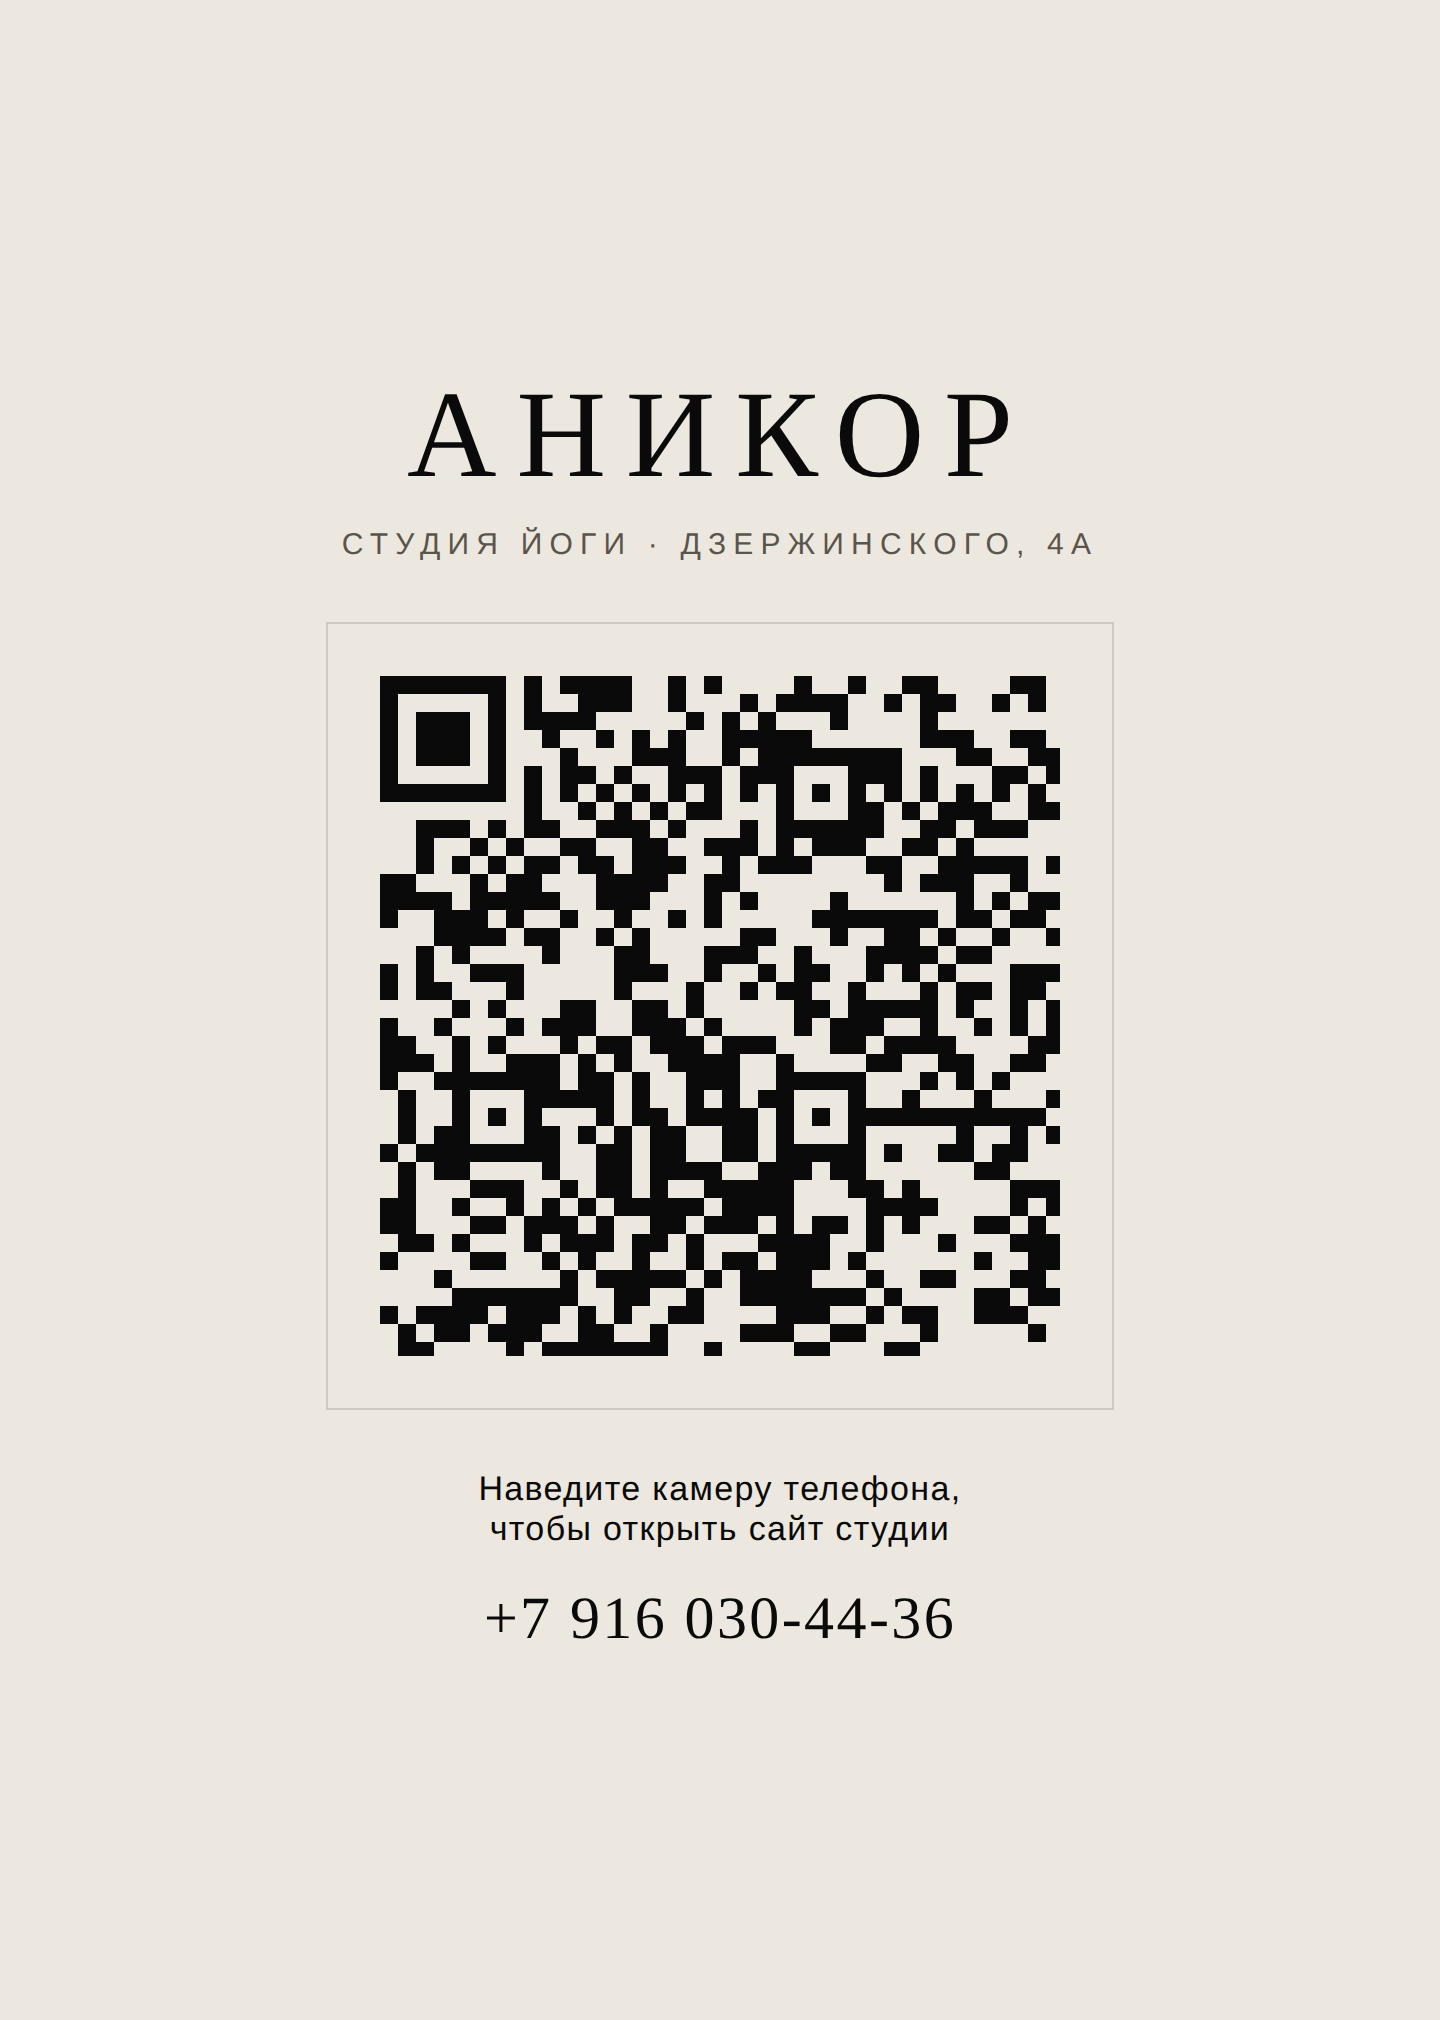
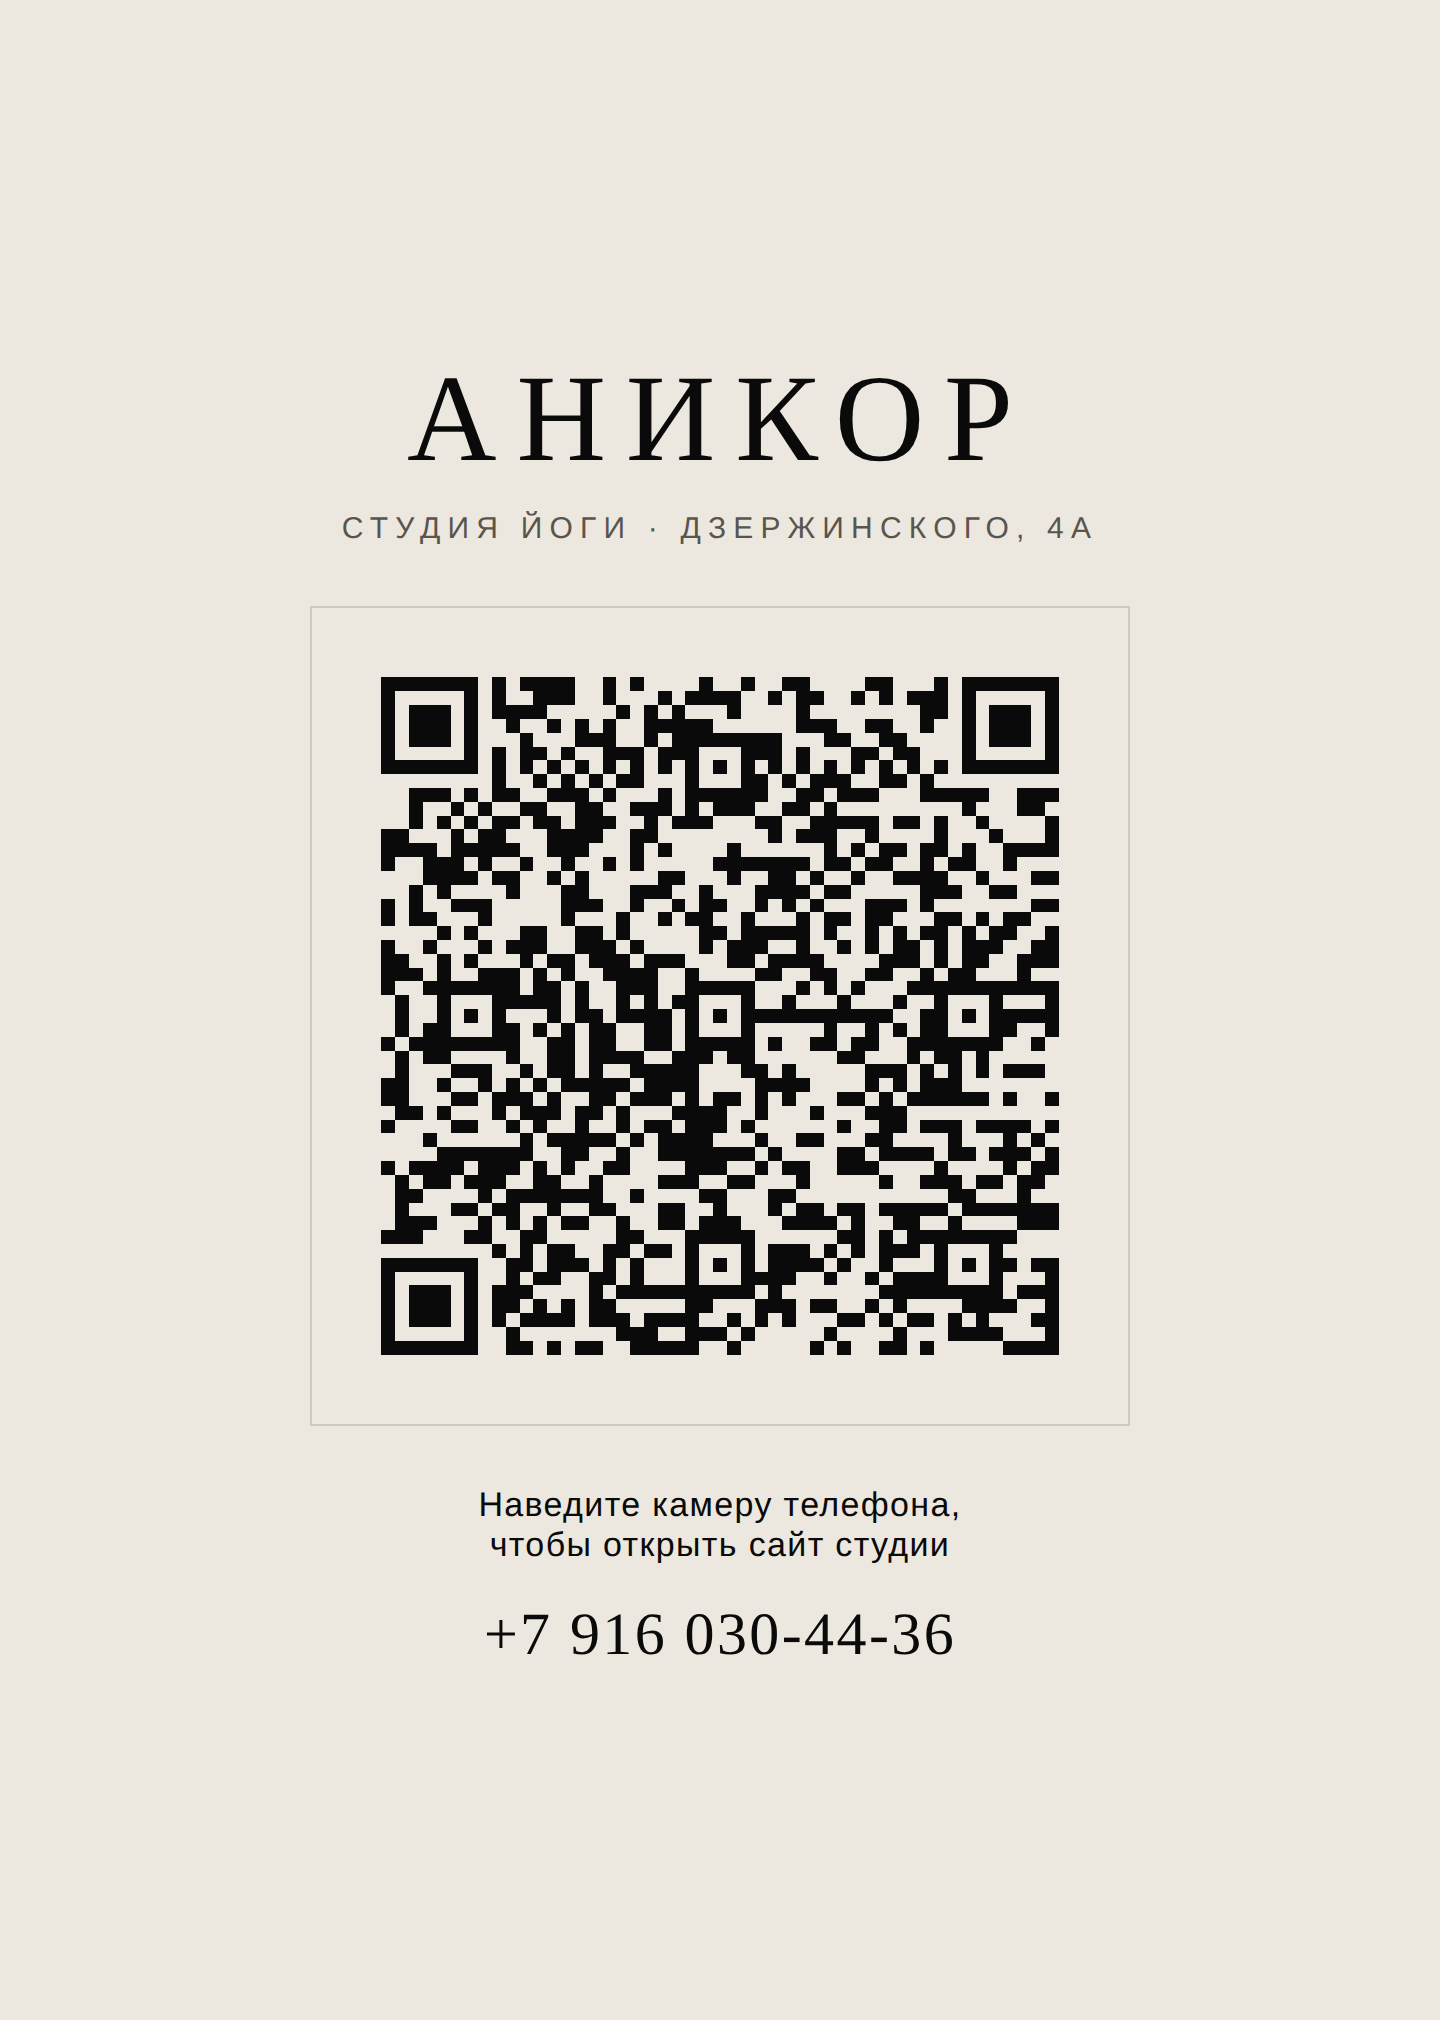
Fix QR cards that would not scan
The bare QR images decoded fine, but the printable cards did not: the card
re-rendered the code as inline SVG, and that render was not readable by a
decoder. The card now embeds the same PNG that was verified, so what is on
the card is exactly the image that scans.

Verified with OpenCV's detector: all four files decode to the right URL,
and the card still decodes when scaled down to 288x404, which is well past
what a phone camera needs.

Claude-Session: https://claude.ai/code/session_01BA2V5MMpZMPert5FZ8X7ZB

diff --git a/qr/anikor-dark-card.html b/qr/anikor-dark-card.html
@@ -7,8 +7,8 @@
   .card { display: grid; justify-items: center; gap: 30px; text-align: center; padding: 60px; }
   .name { font-family: "Playfair Display", Georgia, serif; font-size: 62px; letter-spacing: .16em; text-transform: uppercase; }
   .sub { font-size: 15px; letter-spacing: .24em; text-transform: uppercase; color: #5A554C; }
-  .qr { padding: 26px; background: #EDE8DF; border: 1px solid #5A554C33; }
-  .qr svg { display: block; width: 340px; height: 340px; }
+  .qr { padding: 14px; background: #EDE8DF; border: 1px solid #5A554C33; }
+  .qr img { display: block; width: 380px; height: 380px; image-rendering: pixelated; }
   .hint { font-size: 17px; letter-spacing: .04em; }
   .tel { font-family: "Playfair Display", Georgia, serif; font-size: 30px; letter-spacing: .04em; }
 </style></head><body>
@@ -17,7 +17,7 @@
     <p class="name">Аникор</p>
     <p class="sub" style="margin-top:10px">студия йоги · Дзержинского, 4А</p>
   </div>
-  <div class="qr"><svg width="441" height="441" class="segno"><g transform="scale(9)"><path fill="#ede8df" d="M0 0h49v49h-49z"/><path class="qrline" stroke="#0a0a0a" d="M0 0.5h7m1 0h1m1 0h4m2 0h1m1 0h1m4 0h1m2 0h1m2 0h2m4 0h2m3 0h1m1 0h7m-49 1h1m5 0h1m1 0h1m2 0h3m2 0h1m3 0h1m1 0h4m2 0h1m1 0h2m2 0h1m1 0h1m1 0h3m1 0h1m5 0h1m-49 1h1m1 0h3m1 0h1m1 0h4m5 0h1m1 0h1m1 0h1m3 0h1m4 0h1m8 0h2m1 0h1m1 0h3m1 0h1m-49 1h1m1 0h3m1 0h1m2 0h1m2 0h1m1 0h1m1 0h1m2 0h5m6 0h3m2 0h2m2 0h1m2 0h1m1 0h3m1 0h1m-49 1h1m1 0h3m1 0h1m3 0h1m3 0h3m2 0h1m1 0h8m3 0h2m2 0h2m4 0h1m1 0h3m1 0h1m-49 1h1m5 0h1m1 0h1m1 0h2m1 0h1m2 0h3m1 0h3m3 0h3m1 0h1m3 0h2m1 0h2m3 0h1m5 0h1m-49 1h7m1 0h1m1 0h1m1 0h1m1 0h1m1 0h1m1 0h1m1 0h1m1 0h1m1 0h1m1 0h1m1 0h1m1 0h1m1 0h1m1 0h1m1 0h1m1 0h1m1 0h1m1 0h7m-41 1h1m2 0h1m1 0h1m1 0h1m1 0h2m3 0h1m3 0h2m1 0h1m1 0h3m2 0h2m1 0h1m-38 1h3m1 0h1m1 0h2m2 0h3m1 0h1m3 0h1m1 0h6m2 0h2m1 0h3m3 0h5m2 0h3m-47 1h1m2 0h1m1 0h1m2 0h2m2 0h2m2 0h3m1 0h1m1 0h3m2 0h2m1 0h1m9 0h1m3 0h2m-46 1h1m1 0h1m1 0h1m1 0h2m1 0h2m1 0h3m2 0h1m1 0h3m3 0h2m2 0h5m1 0h2m1 0h1m2 0h1m4 0h1m-49 1h2m3 0h1m1 0h2m3 0h4m2 0h2m8 0h1m1 0h3m2 0h1m4 0h1m3 0h1m3 0h1m-49 1h4m1 0h5m2 0h3m3 0h1m1 0h1m4 0h1m6 0h1m1 0h1m1 0h2m1 0h2m1 0h1m2 0h4m-49 1h1m2 0h3m1 0h1m2 0h1m2 0h1m2 0h1m1 0h1m5 0h7m1 0h2m1 0h2m2 0h1m1 0h2m2 0h1m-43 1h4m1 0h2m2 0h1m1 0h1m5 0h2m3 0h1m2 0h2m1 0h1m2 0h1m2 0h4m2 0h1m3 0h2m-47 1h1m1 0h1m4 0h1m3 0h2m3 0h3m2 0h1m3 0h4m1 0h2m5 0h3m2 0h2m-46 1h1m1 0h1m2 0h3m5 0h3m2 0h1m2 0h1m1 0h2m2 0h1m1 0h1m1 0h1m3 0h3m1 0h1m7 0h2m-49 1h1m1 0h2m3 0h1m5 0h1m3 0h1m2 0h1m1 0h2m2 0h1m3 0h1m1 0h2m1 0h2m3 0h2m1 0h1m1 0h2m-43 1h1m1 0h1m3 0h2m2 0h2m1 0h1m5 0h2m1 0h5m1 0h1m2 0h1m1 0h1m1 0h2m1 0h1m1 0h2m2 0h1m-49 1h1m2 0h1m3 0h1m1 0h3m2 0h3m1 0h1m4 0h1m1 0h3m2 0h1m2 0h1m1 0h1m1 0h2m1 0h1m1 0h3m2 0h2m-49 1h2m2 0h1m1 0h1m3 0h1m1 0h2m1 0h3m1 0h3m3 0h2m1 0h4m4 0h3m1 0h1m1 0h2m2 0h3m-49 1h3m1 0h1m2 0h3m1 0h1m1 0h1m2 0h4m2 0h1m4 0h2m2 0h2m2 0h2m2 0h1m1 0h2m3 0h1m-47 1h1m2 0h7m1 0h2m1 0h1m2 0h3m2 0h5m3 0h1m1 0h1m1 0h1m3 0h11m-48 1h1m2 0h1m3 0h5m1 0h1m2 0h1m1 0h1m1 0h2m3 0h1m2 0h1m3 0h1m3 0h1m2 0h1m3 0h1m3 0h1m-48 1h1m2 0h1m1 0h1m1 0h1m3 0h1m1 0h2m1 0h4m1 0h1m1 0h1m1 0h11m2 0h2m1 0h1m1 0h5m-48 1h1m1 0h2m3 0h2m1 0h1m1 0h1m1 0h2m2 0h2m1 0h1m3 0h1m5 0h1m2 0h1m1 0h1m1 0h2m3 0h2m2 0h1m-49 1h1m1 0h8m2 0h2m1 0h2m2 0h2m1 0h5m1 0h1m2 0h2m1 0h2m2 0h7m2 0h1m-47 1h1m1 0h2m4 0h1m2 0h2m1 0h4m2 0h3m1 0h2m6 0h2m3 0h1m1 0h2m1 0h1m-43 1h1m3 0h3m2 0h1m1 0h2m1 0h1m2 0h5m3 0h2m1 0h1m5 0h3m1 0h1m1 0h1m1 0h1m1 0h3m-48 1h2m2 0h1m2 0h1m1 0h1m1 0h1m1 0h5m1 0h4m4 0h4m4 0h1m1 0h1m1 0h3m-42 1h2m3 0h2m1 0h3m1 0h1m2 0h2m1 0h3m1 0h1m1 0h2m1 0h1m1 0h1m3 0h2m1 0h1m1 0h6m1 0h1m2 0h1m-48 1h2m1 0h1m3 0h1m1 0h3m1 0h2m1 0h1m3 0h4m2 0h1m3 0h1m3 0h3m-38 1h1m4 0h2m2 0h1m1 0h1m2 0h1m2 0h1m1 0h2m1 0h3m1 0h1m6 0h1m2 0h2m1 0h3m1 0h4m1 0h1m-46 1h1m6 0h1m1 0h5m1 0h1m1 0h4m3 0h1m2 0h2m3 0h2m4 0h1m3 0h1m1 0h1m-44 1h7m2 0h2m2 0h1m2 0h7m1 0h1m4 0h2m1 0h4m1 0h2m1 0h3m1 0h1m-49 1h1m1 0h4m1 0h3m1 0h1m1 0h1m2 0h2m4 0h3m2 0h1m1 0h2m2 0h3m4 0h1m4 0h1m1 0h2m-48 1h1m1 0h2m1 0h3m2 0h2m2 0h1m4 0h3m2 0h2m3 0h1m5 0h1m2 0h3m1 0h2m1 0h2m-47 1h2m4 0h1m1 0h7m2 0h1m4 0h2m3 0h2m11 0h2m3 0h1m-46 1h1m3 0h2m1 0h2m2 0h1m2 0h2m3 0h2m2 0h1m3 0h1m1 0h2m1 0h2m1 0h5m1 0h7m-48 1h3m3 0h1m1 0h1m1 0h1m1 0h2m2 0h1m2 0h2m1 0h3m3 0h4m1 0h1m2 0h2m2 0h1m4 0h3m-49 1h3m3 0h2m2 0h2m5 0h2m3 0h5m6 0h2m1 0h1m1 0h8m-38 1h1m1 0h1m1 0h2m2 0h2m1 0h2m1 0h1m3 0h1m1 0h3m1 0h1m1 0h1m1 0h3m1 0h1m3 0h1m-45 1h7m2 0h2m1 0h3m1 0h1m1 0h1m3 0h1m1 0h1m1 0h1m1 0h4m1 0h1m2 0h1m3 0h1m1 0h1m1 0h2m1 0h2m-49 1h1m5 0h1m2 0h1m1 0h2m2 0h2m1 0h1m3 0h1m3 0h4m2 0h1m2 0h1m1 0h4m3 0h1m3 0h1m-49 1h1m1 0h3m1 0h1m1 0h3m4 0h1m1 0h10m1 0h1m7 0h9m1 0h3m-49 1h1m1 0h3m1 0h1m1 0h2m1 0h1m1 0h1m1 0h2m5 0h2m3 0h3m1 0h2m2 0h1m1 0h1m4 0h4m2 0h1m-49 1h1m1 0h3m1 0h1m1 0h1m1 0h4m1 0h3m1 0h4m2 0h1m1 0h1m1 0h1m3 0h2m1 0h1m1 0h2m1 0h1m1 0h1m3 0h2m-49 1h1m5 0h1m2 0h1m7 0h3m2 0h3m1 0h1m5 0h1m4 0h1m3 0h4m3 0h1m-49 1h7m2 0h2m1 0h1m1 0h2m2 0h5m2 0h1m5 0h1m1 0h1m2 0h2m1 0h1m5 0h4"/></g></svg></div>
[1 lines of base64/hex data omitted]
   <div>
     <p class="hint">Наведите камеру телефона,<br>чтобы открыть сайт студии</p>
     <p class="tel" style="margin-top:18px">+7 916 030-44-36</p>

diff --git a/qr/anikor-light-card.html b/qr/anikor-light-card.html
@@ -7,8 +7,8 @@
   .card { display: grid; justify-items: center; gap: 30px; text-align: center; padding: 60px; }
   .name { font-family: Georgia, serif; font-size: 62px; letter-spacing: .16em; text-transform: uppercase; }
   .sub { font-size: 15px; letter-spacing: .24em; text-transform: uppercase; color: #8F6229; }
-  .qr { padding: 26px; background: #F7F4EE; border: 1px solid #8F622933; }
-  .qr svg { display: block; width: 340px; height: 340px; }
+  .qr { padding: 14px; background: #F7F4EE; border: 1px solid #8F622933; }
+  .qr img { display: block; width: 380px; height: 380px; image-rendering: pixelated; }
   .hint { font-size: 17px; letter-spacing: .04em; }
   .tel { font-family: Georgia, serif; font-size: 30px; letter-spacing: .04em; }
 </style></head><body>
@@ -17,7 +17,7 @@
     <p class="name">Аникор</p>
     <p class="sub" style="margin-top:10px">студия йоги · Дзержинского, 4А</p>
   </div>
-  <div class="qr"><svg width="441" height="441" class="segno"><g transform="scale(9)"><path fill="#f7f4ee" d="M0 0h49v49h-49z"/><path class="qrline" stroke="#35513f" d="M0 0.5h7m1 0h1m1 0h1m1 0h2m2 0h3m2 0h3m2 0h1m2 0h2m4 0h3m2 0h1m1 0h7m-49 1h1m5 0h1m1 0h4m4 0h1m1 0h1m4 0h3m2 0h1m1 0h2m2 0h1m1 0h5m1 0h1m5 0h1m-49 1h1m1 0h3m1 0h1m1 0h1m8 0h1m1 0h3m1 0h1m1 0h1m1 0h1m2 0h1m1 0h2m5 0h2m1 0h1m1 0h3m1 0h1m-49 1h1m1 0h3m1 0h1m3 0h1m1 0h1m3 0h7m1 0h1m2 0h1m2 0h3m1 0h3m2 0h1m2 0h1m1 0h3m1 0h1m-49 1h1m1 0h3m1 0h1m3 0h1m4 0h3m1 0h1m1 0h6m1 0h1m2 0h1m1 0h1m2 0h2m4 0h1m1 0h3m1 0h1m-49 1h1m5 0h1m1 0h1m2 0h1m1 0h2m1 0h3m1 0h3m3 0h2m2 0h3m1 0h2m1 0h2m3 0h1m5 0h1m-49 1h7m1 0h1m1 0h1m1 0h1m1 0h1m1 0h1m1 0h1m1 0h1m1 0h1m1 0h1m1 0h1m1 0h1m1 0h1m1 0h1m1 0h1m1 0h1m1 0h1m1 0h1m1 0h7m-41 1h4m1 0h3m1 0h1m4 0h1m3 0h1m2 0h1m3 0h1m2 0h2m-36 1h3m1 0h1m1 0h2m2 0h2m2 0h1m1 0h1m1 0h1m1 0h5m1 0h1m1 0h1m2 0h3m2 0h6m2 0h3m-48 1h3m7 0h1m1 0h3m2 0h3m1 0h12m3 0h1m4 0h1m1 0h1m1 0h2m-44 1h6m1 0h2m1 0h3m2 0h1m1 0h3m3 0h2m2 0h2m1 0h2m2 0h1m1 0h1m7 0h1m-49 1h2m1 0h1m1 0h1m1 0h1m4 0h4m2 0h2m7 0h2m2 0h1m1 0h1m1 0h1m1 0h1m2 0h3m1 0h2m1 0h1m-48 1h3m2 0h5m2 0h3m3 0h1m1 0h1m4 0h1m2 0h1m2 0h2m3 0h1m2 0h2m1 0h1m3 0h3m-49 1h1m2 0h2m2 0h2m1 0h1m2 0h1m2 0h1m1 0h1m6 0h2m1 0h4m1 0h1m1 0h1m3 0h1m2 0h1m2 0h1m-44 1h5m1 0h2m2 0h1m1 0h1m5 0h2m1 0h1m1 0h1m1 0h2m5 0h8m1 0h1m3 0h2m-47 1h1m1 0h1m4 0h1m3 0h2m3 0h3m2 0h1m1 0h6m1 0h2m5 0h3m2 0h2m-46 1h1m1 0h2m1 0h3m3 0h5m2 0h1m2 0h1m1 0h3m1 0h1m3 0h1m3 0h3m1 0h1m7 0h2m-49 1h1m6 0h1m3 0h1m1 0h1m3 0h1m3 0h3m5 0h1m2 0h2m1 0h2m3 0h2m1 0h1m1 0h2m-45 1h1m1 0h1m1 0h1m3 0h3m1 0h1m1 0h2m1 0h6m2 0h4m1 0h1m2 0h1m1 0h1m1 0h2m1 0h1m1 0h2m2 0h1m-49 1h1m2 0h1m3 0h1m1 0h4m1 0h3m1 0h2m2 0h2m3 0h1m1 0h1m3 0h1m3 0h2m1 0h1m1 0h3m2 0h2m-49 1h2m2 0h1m1 0h1m3 0h2m1 0h1m1 0h3m4 0h1m2 0h1m2 0h4m3 0h4m1 0h1m1 0h2m2 0h3m-49 1h3m1 0h1m2 0h3m2 0h2m2 0h5m1 0h1m2 0h1m1 0h6m2 0h2m2 0h1m1 0h2m3 0h1m-47 1h2m1 0h7m6 0h1m1 0h3m1 0h5m3 0h1m1 0h1m1 0h1m3 0h11m-48 1h1m2 0h1m3 0h1m1 0h6m2 0h1m1 0h3m3 0h1m2 0h1m3 0h1m3 0h1m2 0h1m3 0h1m3 0h1m-49 1h1m3 0h1m1 0h1m1 0h7m2 0h1m1 0h1m1 0h2m1 0h1m1 0h11m3 0h1m1 0h1m1 0h5m-49 1h1m2 0h2m3 0h3m2 0h1m2 0h3m1 0h1m1 0h1m3 0h1m5 0h1m2 0h1m1 0h1m1 0h2m3 0h2m2 0h1m-49 1h10m1 0h1m2 0h1m1 0h1m5 0h5m1 0h1m2 0h2m1 0h2m2 0h1m1 0h5m2 0h1m-45 1h2m4 0h1m3 0h1m3 0h1m1 0h5m2 0h1m14 0h1m1 0h1m-44 1h2m3 0h3m1 0h1m2 0h2m1 0h1m3 0h3m4 0h4m3 0h4m2 0h1m1 0h1m1 0h1m1 0h3m-48 1h1m3 0h1m2 0h1m3 0h1m2 0h8m3 0h2m2 0h2m2 0h1m1 0h1m3 0h3m3 0h1m-46 1h2m3 0h2m1 0h1m3 0h11m1 0h3m1 0h2m4 0h1m1 0h8m1 0h2m1 0h1m-49 1h1m1 0h1m1 0h1m3 0h2m1 0h2m2 0h1m1 0h2m2 0h4m1 0h1m4 0h1m1 0h4m10 0h1m-47 1h1m2 0h4m3 0h1m2 0h1m3 0h3m1 0h2m2 0h1m9 0h1m1 0h2m1 0h1m1 0h4m1 0h1m-49 1h1m4 0h1m6 0h2m1 0h2m3 0h3m1 0h1m2 0h1m2 0h2m1 0h1m1 0h3m3 0h1m5 0h1m-46 1h1m1 0h1m1 0h5m2 0h2m2 0h1m2 0h4m1 0h2m1 0h1m5 0h1m1 0h1m1 0h2m1 0h2m2 0h1m2 0h1m-49 1h1m6 0h3m1 0h1m1 0h1m2 0h2m4 0h1m1 0h1m2 0h3m5 0h1m4 0h1m4 0h1m1 0h2m-48 1h2m1 0h5m2 0h2m2 0h1m4 0h3m2 0h6m2 0h2m1 0h1m2 0h3m2 0h1m1 0h2m-47 1h5m2 0h8m2 0h1m4 0h1m3 0h2m2 0h1m1 0h1m3 0h1m3 0h3m2 0h1m-46 1h1m3 0h2m2 0h1m2 0h1m2 0h2m3 0h2m1 0h2m2 0h3m2 0h1m1 0h3m1 0h3m1 0h1m1 0h5m-48 1h3m5 0h1m1 0h1m1 0h2m2 0h1m2 0h2m3 0h1m3 0h1m1 0h2m1 0h1m2 0h2m2 0h1m4 0h3m-49 1h3m3 0h1m3 0h2m3 0h4m3 0h5m3 0h1m2 0h2m1 0h1m1 0h8m-38 1h1m1 0h2m1 0h1m3 0h1m1 0h1m2 0h1m3 0h1m1 0h2m4 0h5m1 0h1m3 0h1m-45 1h7m2 0h3m1 0h2m3 0h1m1 0h1m1 0h1m1 0h1m1 0h1m1 0h1m1 0h2m1 0h1m1 0h2m3 0h1m1 0h1m1 0h2m1 0h2m-49 1h1m5 0h1m2 0h1m1 0h2m5 0h2m2 0h1m3 0h3m3 0h1m2 0h1m1 0h4m3 0h1m3 0h1m-49 1h1m1 0h3m1 0h1m1 0h4m3 0h1m1 0h2m2 0h6m1 0h1m1 0h1m5 0h9m1 0h3m-49 1h1m1 0h3m1 0h1m1 0h2m2 0h2m2 0h1m2 0h2m1 0h1m1 0h1m2 0h2m6 0h3m4 0h4m2 0h1m-49 1h1m1 0h3m1 0h1m1 0h2m1 0h1m1 0h1m5 0h1m1 0h5m1 0h1m1 0h1m3 0h4m1 0h2m2 0h2m3 0h2m-49 1h1m5 0h1m7 0h1m4 0h1m3 0h2m1 0h1m5 0h1m4 0h1m3 0h4m3 0h1m-49 1h7m6 0h2m1 0h2m1 0h1m1 0h3m1 0h1m5 0h1m1 0h1m2 0h2m1 0h1m5 0h4"/></g></svg></div>
[1 lines of base64/hex data omitted]
   <div>
     <p class="hint">Наведите камеру телефона,<br>чтобы открыть сайт студии</p>
     <p class="tel" style="margin-top:18px">+7 916 030-44-36</p>
